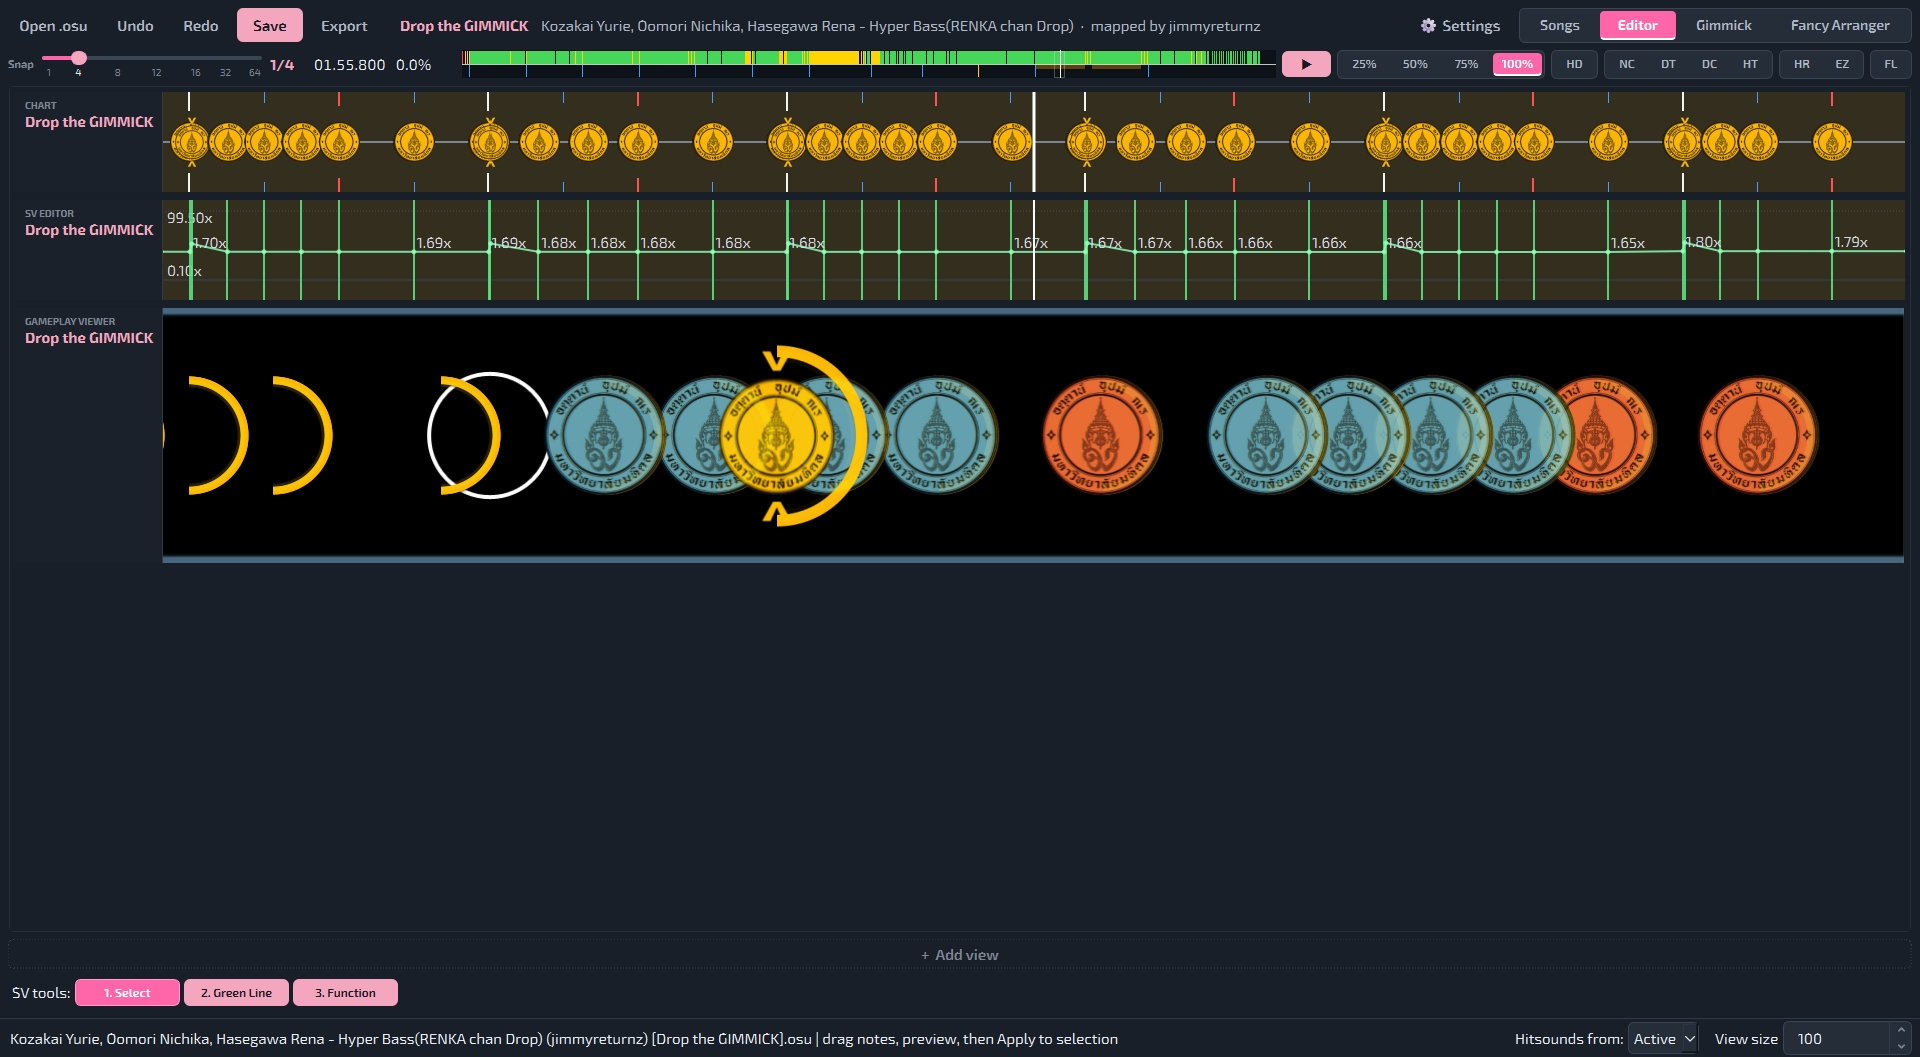
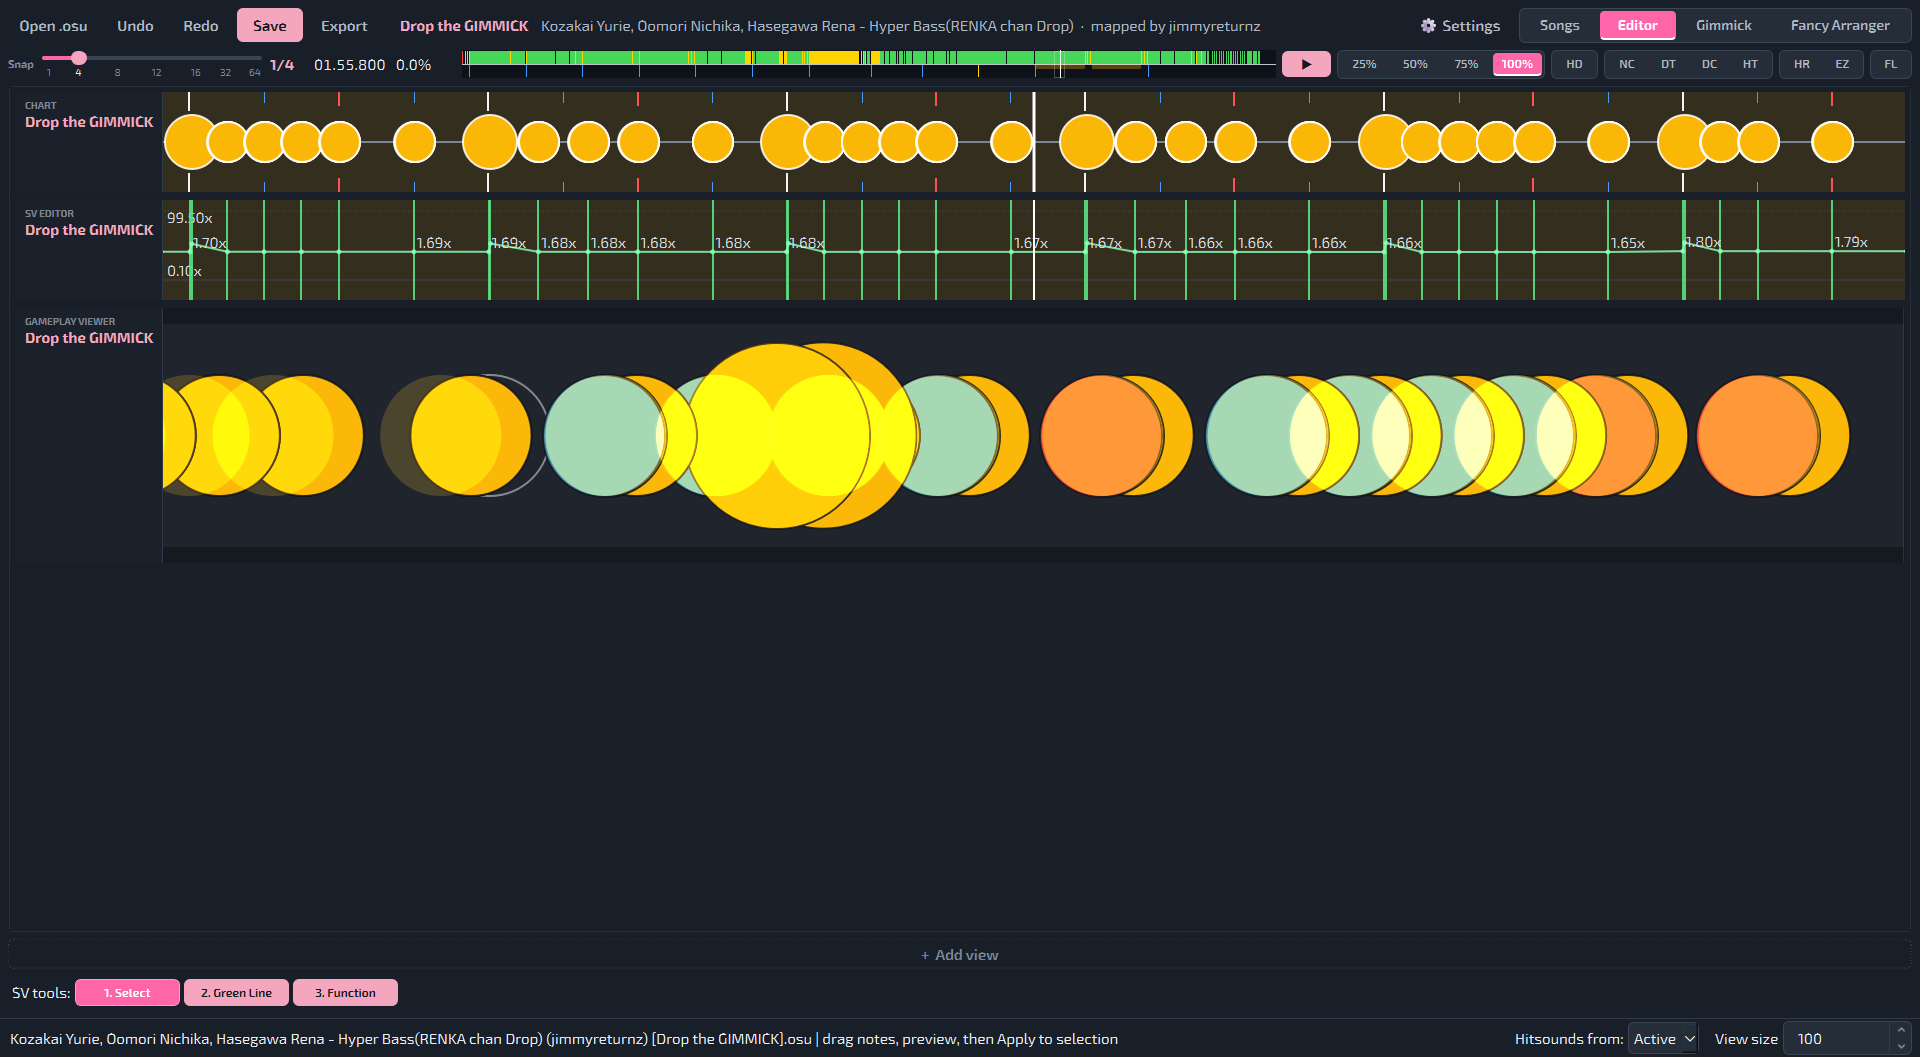
README screenshots with the built-in skin
The shots used the owner's own osu! skin, read from his settings. The
script now sets Built-in in its private settings copy before the window
is built, so the README shows the app's own note art.

Changed region(s): [[0.0625, 0.281, 1.0, 0.5307], [0.0625, 0.0937, 0.9688, 0.1561]]

diff --git a/tools/readme_screenshots.py b/tools/readme_screenshots.py
@@ -94,6 +94,11 @@ def shoot(widget, name: str) -> None:
     print(f"{path.name}: {path.stat().st_size // 1024} KB", flush=True)
 
 
+# The built-in note art, not whatever skin the user plays with: the README
+# shows the app, and a personal skin is theirs. Private copy, so theirs stays.
+import settings as _settings  # noqa: E402
+_settings.SettingsManager().set_value("appearance/skin", "")
+
 window = gui.MainWindow()
 window.resize(1920, 1080)
 window.showMaximized()
